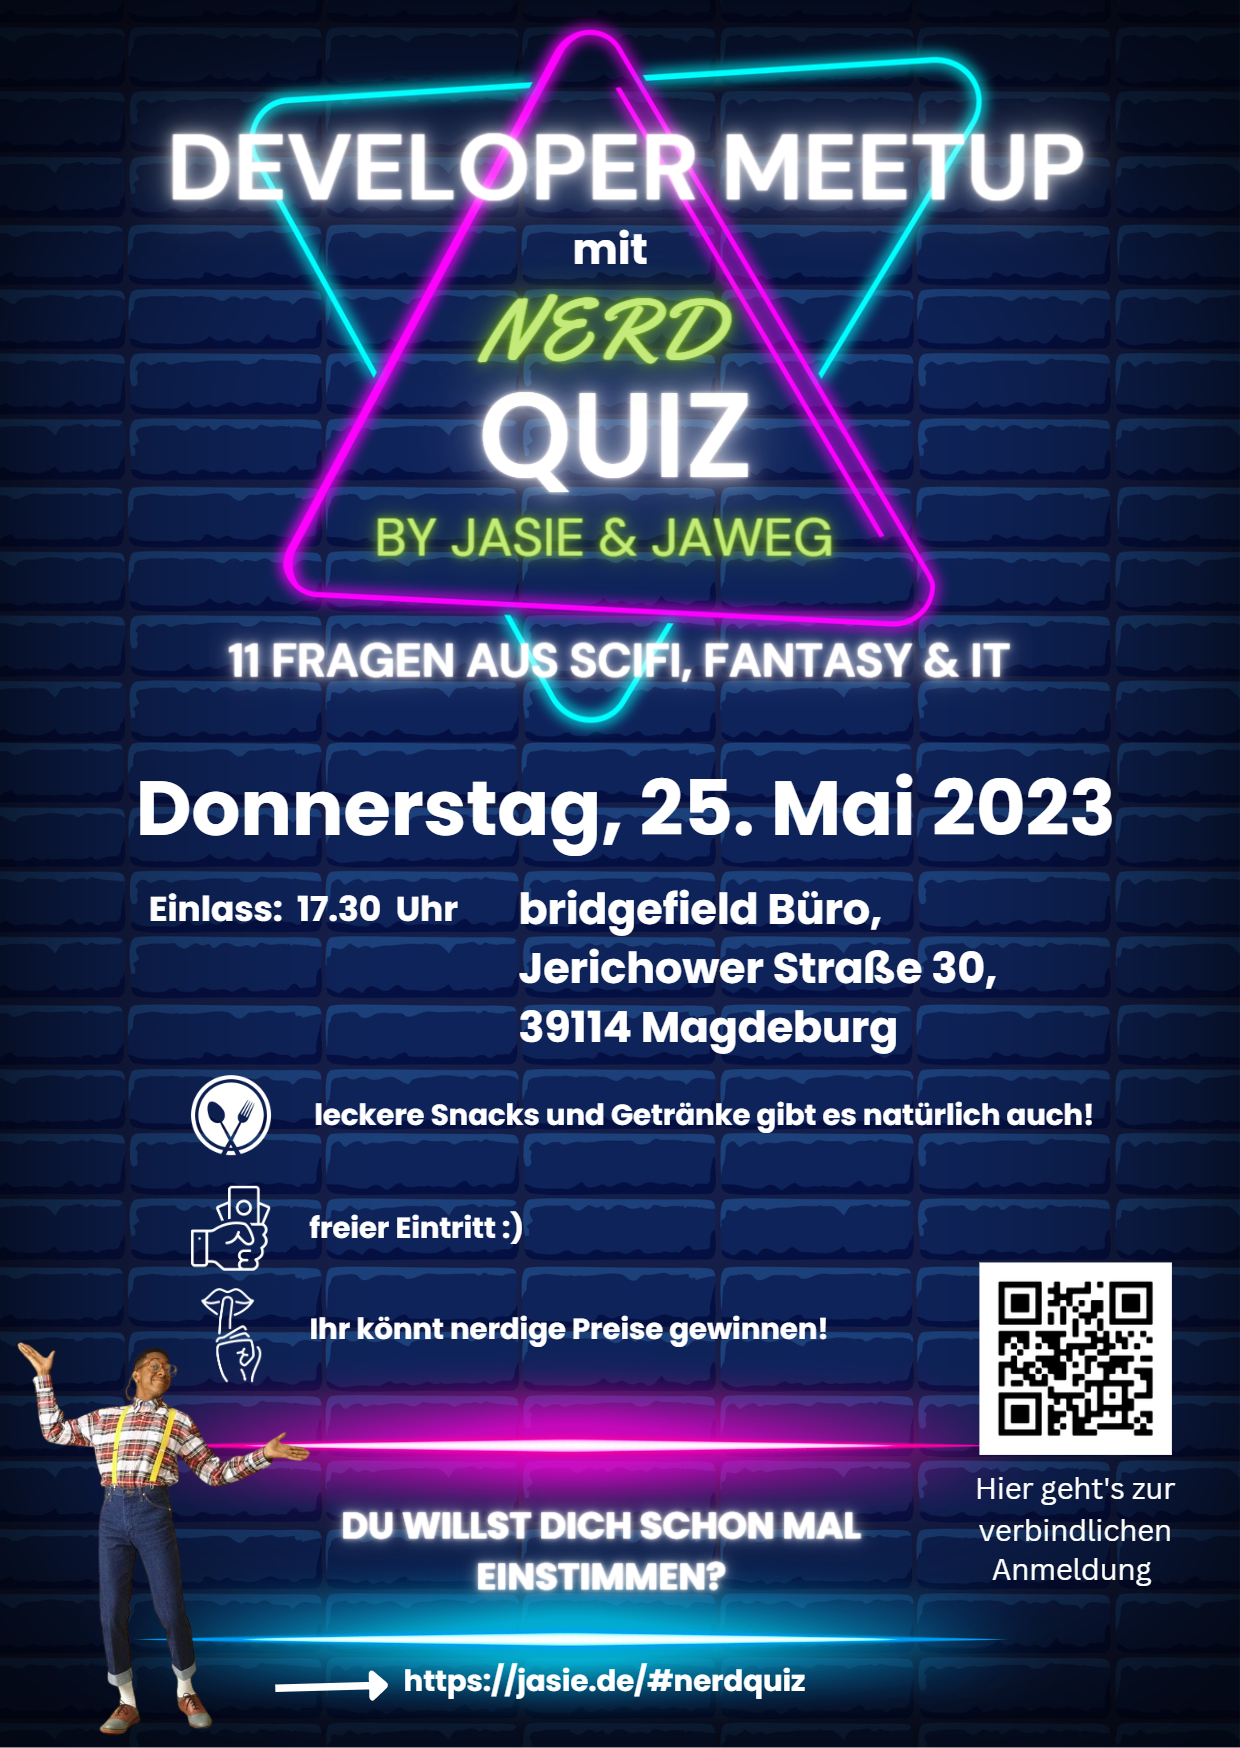
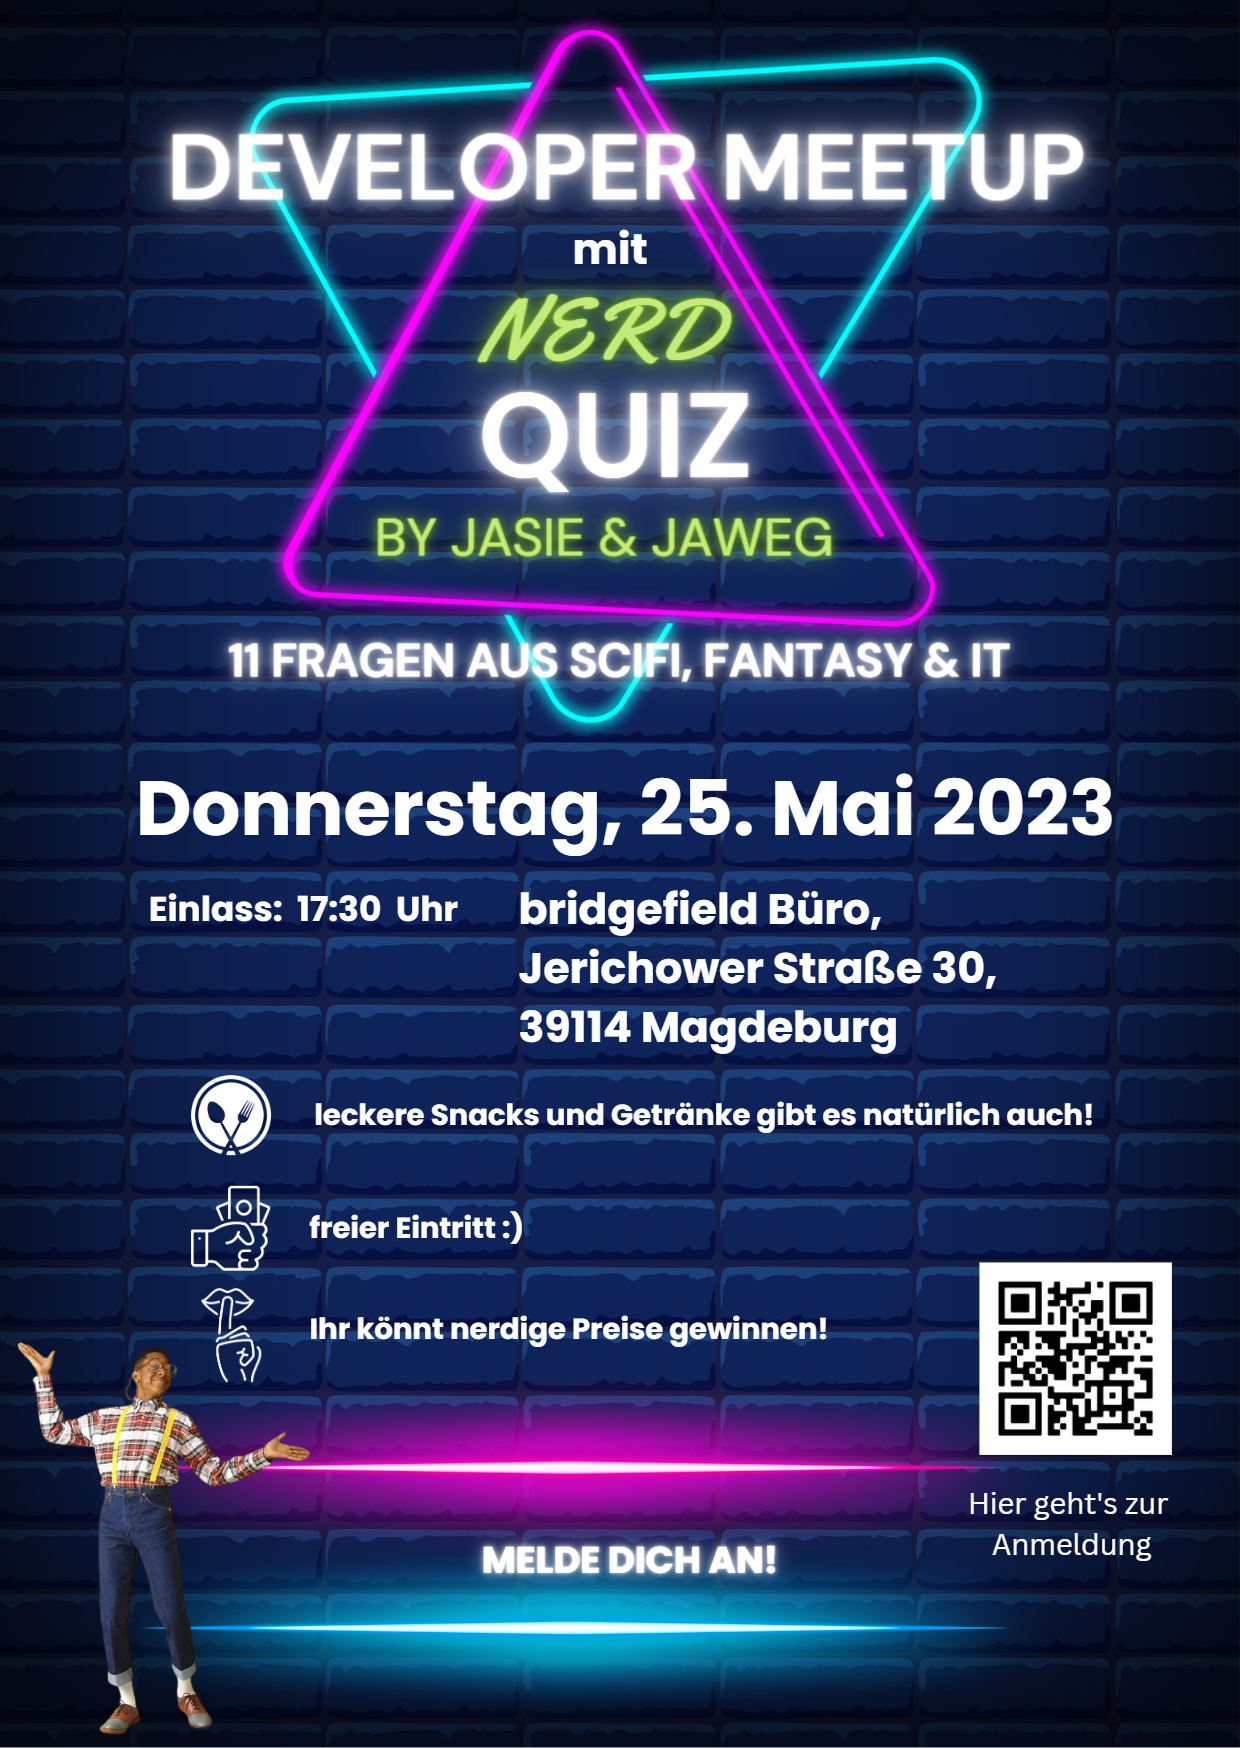
2023-03 updated nerd quiz flyer

Changed region(s): [[0.1532, 0.7723, 0.95, 0.9886]]

diff --git a/nerd-quiz/index.html b/nerd-quiz/index.html
@@ -42,6 +42,8 @@
 		Ort: <a href="https://goo.gl/maps/YnFHbQCqb52ERCre6" title="bridgefield by Google Maps">bridgefield</a>
 	</h3>
 
+	<p>Eintritt frei!</p>
+
 	<p>
 		<i>Da die Teilnehmerzahl begrenzt ist, ist eine Teilnahme nur möglich, nachdem du dich angemeldet und eine
 			Bestätigung erhalten hast!</i>
